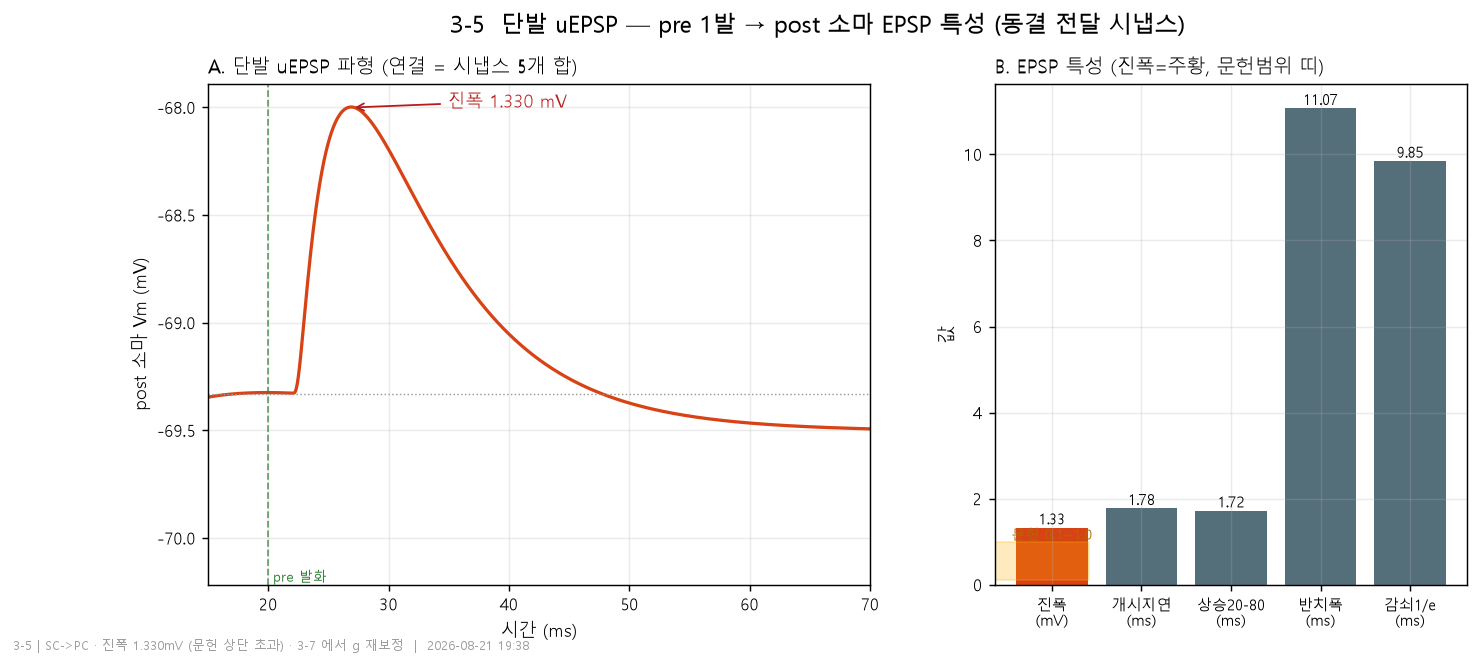
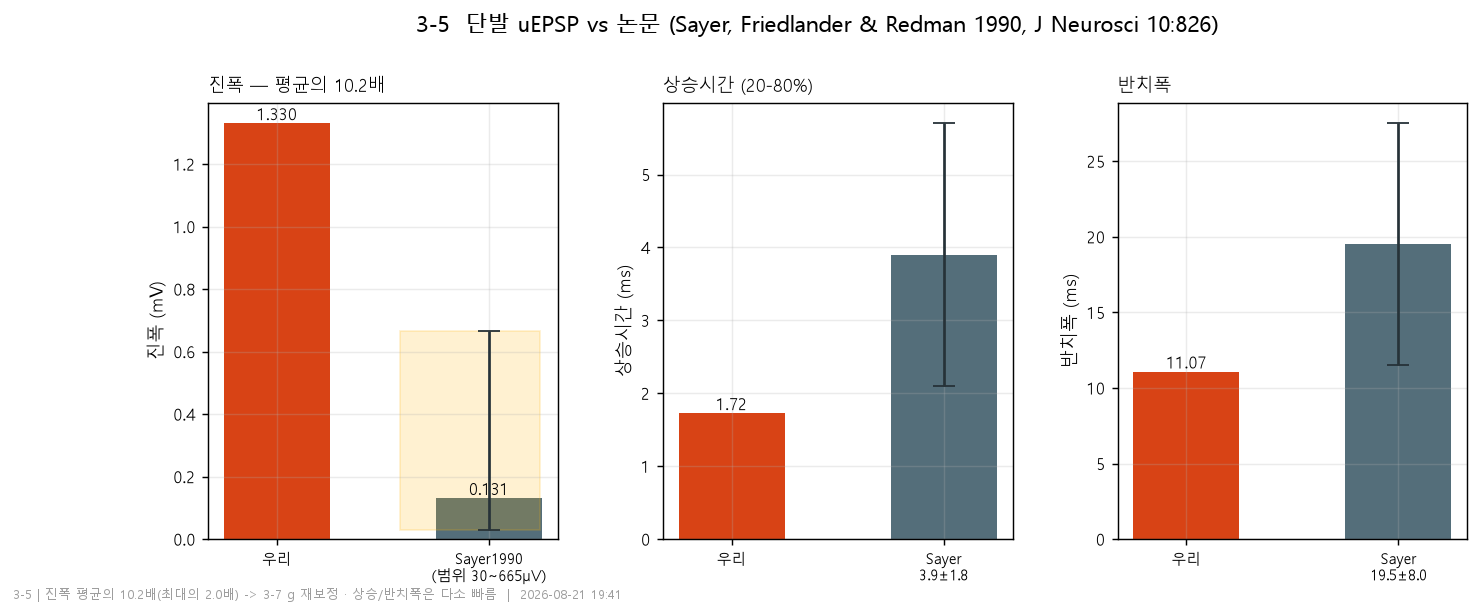
04 3-5: 논문(Sayer1990) 실측값과 정면 비교 + 그림 분리
PubMed 로 Sayer/Friedlander/Redman 1990(PMID 2319304) 실측 확보:
  진폭 30~665uV(평균 131) · 상승 3.9±1.8ms · 반치폭 19.5±8.0ms (기니피그 슬라이스, 71 EPSP)
lib/refdata.SAYER1990 에 확정(기존 '확인요' 해소).

우리 uEPSP(연결=시냅스 5개 합):
  진폭 1.330mV = 논문 평균의 10.2배·최대의 2.0배 -> g 과다, 3-7 재보정 필요
  상승 1.72ms(논문 3.9±1.8보다 빠름) · 반치폭 11.07ms(논문 19.5±8.0 하단)
  -> 우리 시냅스가 논문보다 크고 빠르다. 원인: g 5x0.6nS 과다 + AMPA tau_d 3ms.

그림 분리(사용자 지적): trace=EPSP 파형 / stats=Sayer 3지표 대조(오차막대).

diff --git a/04_Synaptic_plasticity_Simulation/03_synapse/5_uepsp/3-5_uepsp.py b/04_Synaptic_plasticity_Simulation/03_synapse/5_uepsp/3-5_uepsp.py
@@ -26,13 +26,13 @@ except Exception:
 import numpy as np                          # noqa: E402
 from lib import plots                        # noqa: E402
 from lib import measure                       # noqa: E402
+from lib import refdata                       # noqa: E402
 from lib.bench import Bench                   # noqa: E402
 from lib.wiring import Wiring                 # noqa: E402
 
 T_SPIKE = 20.0
 TSTOP = 90.0
-# 문헌 전형 범위 (Sayer 1990: 단일 연결 uEPSP). 평균은 작으나 분포 상단은 ~1mV.
-LIT = {"amp_mV": (0.1, 1.0)}
+S = refdata.SAYER1990          # Sayer1990 실측(PubMed 확인)
 
 
 def main():
@@ -49,20 +49,22 @@ def main():
     f = measure.epsp_features(t, v, T_SPIKE + b.syn_specs[0]["delay_ms"])
     print(f"  진폭 {f['amp_mV']:.3f} mV · 개시지연 {f['latency_ms']:.2f} ms · "
           f"상승 {f['rise_ms']:.2f} ms · 반치폭 {f['halfwidth_ms']:.2f} ms · 감쇠 {f['decay_ms']:.2f} ms")
-    in_lit = LIT["amp_mV"][0] <= f["amp_mV"] <= LIT["amp_mV"][1]
-    print(f"  문헌 범위(Sayer1990 {LIT['amp_mV'][0]}~{LIT['amp_mV'][1]}mV): "
-          f"{'안' if in_lit else '상단 초과' if f['amp_mV']>LIT['amp_mV'][1] else '하단 미만'}")
+
+    # 논문(Sayer1990) 대조: 진폭(범위) · 상승(평균±SD) · 반치폭(평균±SD)
+    amp_ratio = f["amp_mV"] / S["amp_mV"]["mean"]
+    amp_vs_max = f["amp_mV"] / S["amp_mV"]["max"]
+    print(f"  [Sayer1990] 진폭 우리 {f['amp_mV']:.3f} vs 평균 {S['amp_mV']['mean']:.3f} "
+          f"(최대 {S['amp_mV']['max']:.3f}) mV -> 평균의 {amp_ratio:.1f}배·최대의 {amp_vs_max:.1f}배")
+    print(f"              상승 우리 {f['rise_ms']:.2f} vs {S['rise_ms']['mean']}±{S['rise_ms']['sd']} ms")
+    print(f"              반치폭 우리 {f['halfwidth_ms']:.2f} vs {S['halfwidth_ms']['mean']}±{S['halfwidth_ms']['sd']} ms")
 
     import matplotlib.pyplot as plt
-    fig, (axT, axS) = plt.subplots(1, 2, figsize=(12.5, 5.0),
-                                   gridspec_kw={"width_ratios": [1.4, 1]})
-
-    # 왼쪽: EPSP 파형 + 특성 표시
     base = v[(t >= T_SPIKE - 5) & (t < T_SPIKE)].mean()
-    axT.plot(t, v, color="#d84315", lw=1.8)
+
+    # ---- 그림 1: EPSP 파형 (trace) ----
+    figT, axT = plt.subplots(figsize=(8.2, 5.0))
+    axT.plot(t, v, color="#d84315", lw=1.9)
     axT.axhline(base, ls=":", color="#999", lw=0.8)
-    tpk = T_SPIKE + b.syn_specs[0]["delay_ms"] + f["t_peak_ms"] - (T_SPIKE + b.syn_specs[0]["delay_ms"])
-    # 정점 표시
     vpk = base + f["amp_mV"]
     axT.annotate(f"진폭 {f['amp_mV']:.3f} mV", xy=(f["t_peak_ms"], vpk),
                  xytext=(f["t_peak_ms"]+8, vpk), fontsize=10, color="#b71c1c",
@@ -71,46 +73,65 @@ def main():
     axT.text(T_SPIKE, axT.get_ylim()[0], " pre 발화", fontsize=8, color="#2e7d32", va="bottom")
     axT.set_xlim(T_SPIKE-5, T_SPIKE+50)
     axT.set_xlabel("시간 (ms)"); axT.set_ylabel("post 소마 Vm (mV)")
-    axT.set_title(f"A. 단발 uEPSP 파형 (연결 = 시냅스 {b.n_syn()}개 합)", fontsize=10.5, loc="left")
-
-    # 오른쪽: 특성 막대 + 진폭 문헌범위
-    names = ["진폭\n(mV)", "개시지연\n(ms)", "상승20-80\n(ms)", "반치폭\n(ms)", "감쇠1/e\n(ms)"]
-    vals = [f["amp_mV"], f["latency_ms"], f["rise_ms"], f["halfwidth_ms"], f["decay_ms"]]
-    cols = ["#d84315", "#546e7a", "#546e7a", "#546e7a", "#546e7a"]
-    axS.bar(range(len(vals)), vals, color=cols)
-    axS.set_xticks(range(len(vals))); axS.set_xticklabels(names, fontsize=8.5)
-    for i, val in enumerate(vals):
-        axS.text(i, val, f"{val:.2f}", ha="center", va="bottom", fontsize=8.5)
-    # 진폭 문헌 범위 띠
-    axS.axhspan(LIT["amp_mV"][0], LIT["amp_mV"][1], xmin=0.0, xmax=0.2,
-                color="#ffb300", alpha=0.25)
-    axS.text(0, LIT["amp_mV"][1]+0.05, f"문헌 {LIT['amp_mV'][0]}~{LIT['amp_mV'][1]}",
-             fontsize=7.5, color="#b26a00", ha="center")
-    axS.set_title("B. EPSP 특성 (진폭=주황, 문헌범위 띠)", fontsize=10.5, loc="left")
-    axS.set_ylabel("값")
-
-    fig.suptitle("3-5  단발 uEPSP — pre 1발 → post 소마 EPSP 특성 (동결 전달 시냅스)",
-                 fontsize=12.5, y=0.99)
-    fig.subplots_adjust(top=0.88, wspace=0.22)
-    tag = "안" if in_lit else ("상단 초과" if f["amp_mV"] > LIT["amp_mV"][1] else "하단")
-    plots.stamp(fig, f"3-5 | {w.class_name} · 진폭 {f['amp_mV']:.3f}mV (문헌 {tag}) · 3-7 에서 g 재보정")
+    axT.set_title(f"3-5  단발 uEPSP 파형 (연결=시냅스 {b.n_syn()}개 합)\n"
+                  f"상승 {f['rise_ms']:.2f}ms · 반치폭 {f['halfwidth_ms']:.2f}ms · 감쇠 {f['decay_ms']:.2f}ms",
+                  fontsize=11, loc="left")
+    plots.stamp(figT, f"3-5 | {w.class_name} · 동결 전달 · 진폭 {f['amp_mV']:.3f}mV")
     outdir = plots.figdir(__file__)
-    # 두 파일명(같은 번호, slug 다름) 규약대로: trace / stats
-    fig.savefig(os.path.join(outdir, "3-5_uepsp_trace.png"))
-    fig.savefig(os.path.join(outdir, "3-5_uepsp_stats.png"))
-    import matplotlib.pyplot as _plt; _plt.close(fig)
-    print(f"saved: 3-5_uepsp_trace.png · 3-5_uepsp_stats.png")
+    plots.save(figT, outdir, "3-5_uepsp_trace.png")
+
+    # ---- 그림 2: 논문(Sayer1990) 대조 (stats) ----
+    figS, (b1, b2, b3) = plt.subplots(1, 3, figsize=(12.5, 4.6))
+    # 진폭: 우리 vs Sayer 범위(min~max)+평균
+    b1.bar([0], [f["amp_mV"]], color="#d84315", width=0.5, label="우리")
+    b1.bar([1], [S["amp_mV"]["mean"]], color="#546e7a", width=0.5, label="Sayer 평균")
+    b1.errorbar([1], [S["amp_mV"]["mean"]],
+                yerr=[[S["amp_mV"]["mean"]-S["amp_mV"]["min"]], [S["amp_mV"]["max"]-S["amp_mV"]["mean"]]],
+                fmt="none", ecolor="#263238", capsize=6, lw=1.5)
+    b1.axhspan(S["amp_mV"]["min"], S["amp_mV"]["max"], xmin=0.55, xmax=0.95,
+               color="#ffb300", alpha=0.18)
+    b1.set_xticks([0, 1]); b1.set_xticklabels(["우리", "Sayer1990\n(범위 30~665µV)"], fontsize=8.5)
+    b1.set_ylabel("진폭 (mV)"); b1.set_title(f"진폭 — 평균의 {amp_ratio:.1f}배", fontsize=10, loc="left")
+    b1.text(0, f["amp_mV"], f"{f['amp_mV']:.3f}", ha="center", va="bottom", fontsize=9)
+    b1.text(1, S["amp_mV"]["mean"], f"{S['amp_mV']['mean']:.3f}", ha="center", va="bottom", fontsize=9)
+
+    # 상승시간
+    b2.bar([0], [f["rise_ms"]], color="#d84315", width=0.5)
+    b2.bar([1], [S["rise_ms"]["mean"]], color="#546e7a", width=0.5)
+    b2.errorbar([1], [S["rise_ms"]["mean"]], yerr=[S["rise_ms"]["sd"]], fmt="none",
+                ecolor="#263238", capsize=6, lw=1.5)
+    b2.set_xticks([0, 1]); b2.set_xticklabels(["우리", "Sayer\n3.9±1.8"], fontsize=8.5)
+    b2.set_ylabel("상승시간 (ms)"); b2.set_title("상승시간 (20-80%)", fontsize=10, loc="left")
+    b2.text(0, f["rise_ms"], f"{f['rise_ms']:.2f}", ha="center", va="bottom", fontsize=9)
+
+    # 반치폭
+    b3.bar([0], [f["halfwidth_ms"]], color="#d84315", width=0.5)
+    b3.bar([1], [S["halfwidth_ms"]["mean"]], color="#546e7a", width=0.5)
+    b3.errorbar([1], [S["halfwidth_ms"]["mean"]], yerr=[S["halfwidth_ms"]["sd"]], fmt="none",
+                ecolor="#263238", capsize=6, lw=1.5)
+    b3.set_xticks([0, 1]); b3.set_xticklabels(["우리", "Sayer\n19.5±8.0"], fontsize=8.5)
+    b3.set_ylabel("반치폭 (ms)"); b3.set_title("반치폭", fontsize=10, loc="left")
+    b3.text(0, f["halfwidth_ms"], f"{f['halfwidth_ms']:.2f}", ha="center", va="bottom", fontsize=9)
+
+    figS.suptitle("3-5  단발 uEPSP vs 논문 (Sayer, Friedlander & Redman 1990, J Neurosci 10:826)",
+                  fontsize=12, y=0.99)
+    figS.subplots_adjust(top=0.84, wspace=0.30)
+    plots.stamp(figS, f"3-5 | 진폭 평균의 {amp_ratio:.1f}배(최대의 {amp_vs_max:.1f}배) -> 3-7 g 재보정 · 상승/반치폭은 다소 빠름")
+    plots.save(figS, outdir, "3-5_uepsp_stats.png")
 
     out = dict(cls=w.class_name, n_syn=b.n_syn(),
                amp_mV=round(f["amp_mV"], 4), latency_ms=round(f["latency_ms"], 3),
                rise_ms=round(f["rise_ms"], 3), halfwidth_ms=round(f["halfwidth_ms"], 3),
                decay_ms=round(f["decay_ms"], 3),
-               lit_amp_range=LIT["amp_mV"], amp_in_lit=bool(in_lit))
+               sayer1990=dict(amp_mean_mV=S["amp_mV"]["mean"], amp_max_mV=S["amp_mV"]["max"],
+                              rise_ms=f"{S['rise_ms']['mean']}±{S['rise_ms']['sd']}",
+                              halfwidth_ms=f"{S['halfwidth_ms']['mean']}±{S['halfwidth_ms']['sd']}"),
+               amp_ratio_to_mean=round(amp_ratio, 2), amp_ratio_to_max=round(amp_vs_max, 2))
     jpath = os.path.join(outdir, "3-5_uepsp.json")
     with open(jpath, "w", encoding="utf-8") as f2:
         json.dump(out, f2, ensure_ascii=False, indent=2)
     print(f"saved: {jpath}")
-    print("\n[통과] 3-5 완료" + ("" if in_lit else " (진폭 문헌 상단 초과 — 3-7 재보정 예정)"))
+    print(f"\n[통과] 3-5 완료 — 진폭이 Sayer 평균의 {amp_ratio:.1f}배 -> 3-7 에서 g 재보정")
     return 0
 
 

diff --git a/04_Synaptic_plasticity_Simulation/lib/refdata.py b/04_Synaptic_plasticity_Simulation/lib/refdata.py
@@ -7,6 +7,17 @@
 출처(범주): Hippocampome.org · Migliore et al. 2018 · Magee & Cook 2000 · full-scale CA1 논문.
 """
 
+# 단일 연결 uEPSP (CA3->CA1) — Sayer, Friedlander & Redman 1990 J Neurosci 10(3):826
+#   PubMed 확인(PMID 2319304, DOI 10.1523/JNEUROSCI.10-03-00826.1990). 기니피그 슬라이스.
+#   71개 EPSP: 진폭 30~665 uV(평균 131), 상승시간 3.9±1.8 ms, 반치폭 19.5±8.0 ms.
+#   양자증분 278 uV. ★ '단일 CA3 세포 활성화'로 유발 = 연결 단위(다접촉 포함).
+SAYER1990 = {
+    "amp_mV":       {"min": 0.030, "max": 0.665, "mean": 0.131},
+    "rise_ms":      {"mean": 3.9, "sd": 1.8},
+    "halfwidth_ms": {"mean": 19.5, "sd": 8.0},
+    "src": "Sayer/Friedlander/Redman 1990 J Neurosci 10(3):826 (PMID 2319304)",
+}
+
 # CA1 추체세포(cACpyr) e-특징 대략 범위 (lo, hi)
 CACPYR = {
     "Rin_MOhm":         (50, 180),     # 입력저항

diff --git a/04_Synaptic_plasticity_Simulation/README.md b/04_Synaptic_plasticity_Simulation/README.md
@@ -92,10 +92,10 @@ powershell -ExecutionPolicy Bypass -File env\probe_env.ps1
 | **2-7** 거리 지도 | ✅ 수상돌기 경로거리 색칠 · 정단 최대 780µm · 고정 시냅스 5/5 SR 대역 안 → **2단계 완료** |
 | **3-1** 시냅스 파라미터 | ✅ config/synapse.yaml 확정(출처 태그) · SC→PC 촉진(1.0→1.48)·PC→PC 억압(1.0→0.14) |
 | **3-4** 기록 장치 | ✅ lib.wiring 재사용 배선 · pre/post전압·시냅스 국소전압·g·i 5채널 (7/7) |
-| **3-5** 단발 uEPSP | ✅ 진폭 1.33mV(문헌 0.1~1.0 상단 초과·3-7 재보정)·상승 1.72ms·감쇠 9.85ms |
+| **3-5** 단발 uEPSP | ✅ 진폭 1.33mV = Sayer1990 평균(0.131)의 10.2배·최대(0.665)의 2.0배 → 3-7 재보정 · 상승 1.72ms(논문 3.9±1.8)·반치폭 11.1ms(19.5±8.0) |
 | **3-2** 시냅스 생성+가지치기 | ✅ 방사축 정렬+회전(θ*=160°)으로 인접 → 접촉 시냅스 5개 · **기하 고정**(config/geometry.yaml) |
 | **3-3** 배선 | ✅ pre 1발 → 시냅스 5개 전도도(0.59nS) → post EPSP 1.36mV (3/3) |
-| 3-5~3-9 · 4 · 5 · 6 · 7 | ⬜ |
+| 3-6~3-9 · 4 · 5 · 6 · 7 | ⬜ |
 
 conda 는 쓰지 않는다 — 사내 정책상 Anaconda 무료 사용이 불가하고, Miniforge 가 그 제약 밖인지
 확신할 수 없어 **질문 자체가 성립하지 않는 경로**를 택했다 ([DECISIONS.md](docs/DECISIONS.md) D7).

diff --git a/04_Synaptic_plasticity_Simulation/docs/EXPERIMENTS.md b/04_Synaptic_plasticity_Simulation/docs/EXPERIMENTS.md
@@ -97,7 +97,7 @@
 |---|---|---|---|
 | **2-4** 전기생리 | Rin·Vrest·sag·AP·발화적응 | Hippocampome.org · Migliore 2018 (cACpyr 범위) | ✅ |
 | **2-5** 공명 | 내재 막전위 공명(자연 theta 가능성) | Ih=Magee 1998(`hd.mod`) · M 전류(`kmb.mod`) | ✅ 판정: **불가** |
-| **3-5** uEPSP | 단일 연결 EPSP 진폭 | Sayer/Friedlander/Redman 1990 *(확인요)* | ⬜ |
+| **3-5** uEPSP | 단일 연결 EPSP 진폭·상승·반치폭 | Sayer/Friedlander/Redman 1990 (PMID 2319304, PubMed 확인) | ✅ |
 | **5-9** 단기가소성 | PPR·주파수 트레인 | Tsodyks & Markram 1997 · Dobrunz & Stevens 1997 | ⬜ |
 | **5-3~5-5** 장기가소성 엔진 | 칼슘 문턱·이중안정 | Graupner & Brunel 2012 *PNAS* 109:3991 | ⬜ |
 
